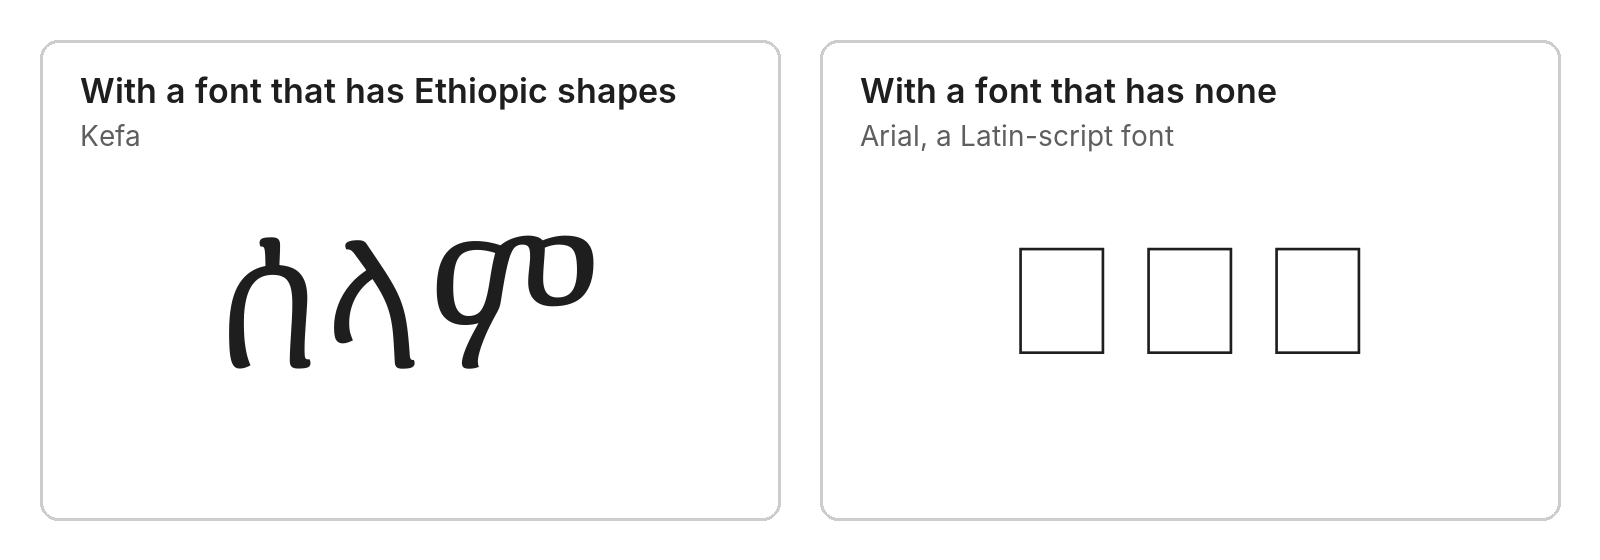
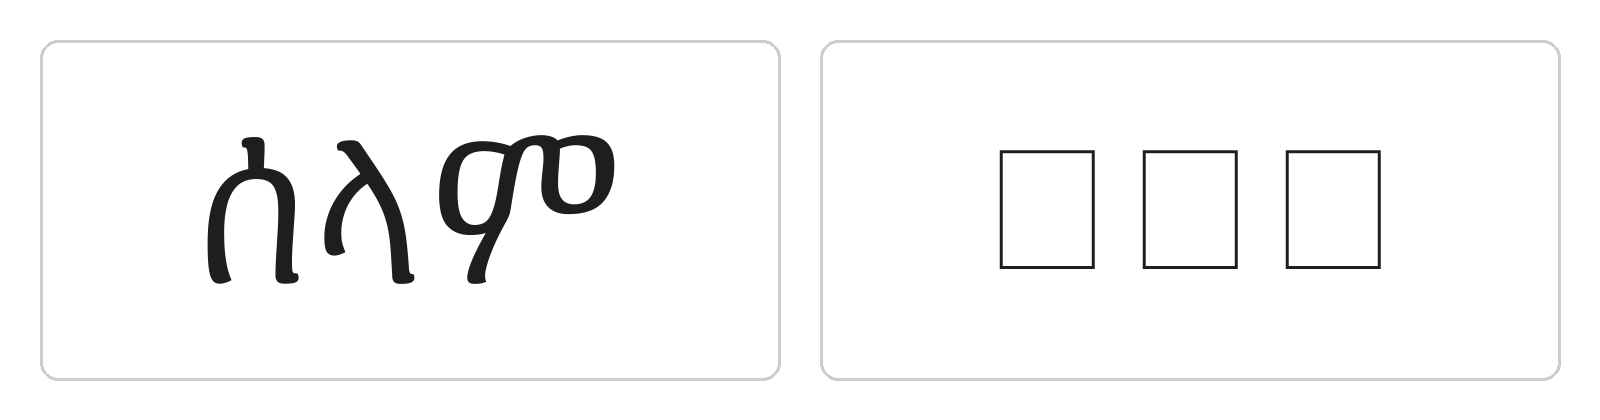
Tofu image: no baked-in labels; the caption explains left and right

diff --git a/programming-terms/fonts/font.md b/programming-terms/fonts/font.md
@@ -42,7 +42,7 @@ A font is a file that holds the shapes software uses to show text.<sup>1</sup>
 
 Each shape in a font is called a [glyph](glyph.md): it is the [typeface](typeface.md)'s design for a [character](../text-in-software/character.md) of text. The font file also holds instructions that a [shaping engine](../text-shaping-and-layout/shaping-engine.md) reads to choose and place those shapes, usually in a format called [OpenType](opentype.md). The set of characters a font has glyphs for is called its [font coverage](font-coverage.md). When the text needs a character the font has no glyph for, software uses a [fallback font](fallback-font.md) or shows an empty box called [tofu](tofu.md).&#x20;
 
-<figure><img src="../../.gitbook/assets/tofu-selam.png" alt="The Amharic word ሰላም shown twice. On the left, in Kefa, a font with Ethiopic shapes, the three characters appear correctly. On the right, in Arial, a Latin-script font with no Ethiopic shapes, each character appears as an empty rectangle: tofu."><figcaption><p>ሰላም in a font that has Ethiopic shapes, and in one that has none: the empty boxes are tofu.</p></figcaption></figure>
+<figure><img src="../../.gitbook/assets/tofu-selam.png" alt="The Amharic word ሰላም shown twice: correctly on the left, and as three empty rectangles on the right."><figcaption><p>Left: the Amharic word ሰላም in Kefa, a font that has Ethiopic shapes. Right: the same three characters in Arial, a Latin-script font that has none, so each one appears as an empty box: tofu.</p></figcaption></figure>
 
 Alongside the glyphs, the font file holds a list called the character map. [Unicode](../text-in-software/unicode.md) gives every character a number, and the character map says which glyph in the font goes with each number.<sup>2</sup> Software reads that list every time it shows a word.<sup>3</sup>&#x20;
 

diff --git a/programming-terms/fonts/tofu.md b/programming-terms/fonts/tofu.md
@@ -41,7 +41,7 @@ Tofu is what you see when every [font](font.md) available, the files that hold t
 
 For example, the Amharic greeting ሰላም ("selam", "peace") is written with three characters of [Ethiopic script](../../language-terms/writing-systems-and-scripts/ethiopic-script.md). On a device with no font for Ethiopic, the same word looks like this: □□□.
 
-<figure><img src="../../.gitbook/assets/tofu-selam.png" alt="The Amharic word ሰላም shown twice. On the left, in Kefa, a font with Ethiopic shapes, the three characters appear correctly. On the right, in Arial, a Latin-script font with no Ethiopic shapes, each character appears as an empty rectangle: tofu."><figcaption><p>The same three characters, ሰላም, in a font that has Ethiopic shapes and in one that has none.</p></figcaption></figure>
+<figure><img src="../../.gitbook/assets/tofu-selam.png" alt="The Amharic word ሰላም shown twice: correctly on the left, and as three empty rectangles on the right."><figcaption><p>Left: the Amharic word ሰላም in Kefa, a font that has Ethiopic shapes. Right: the same three characters in Arial, a Latin-script font that has none, so each one appears as an empty box: tofu.</p></figcaption></figure>
 
 ### Why it matters in design systems
 
